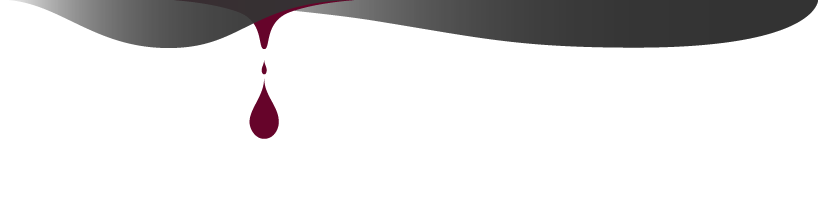
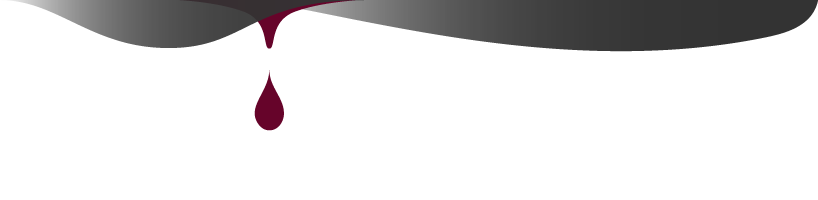
zacetek

diff --git a/script/anime.min.js b/script/anime.min.js
@@ -1,0 +1,8 @@
+/*
+ * anime.js v3.2.0
+ * (c) 2020 Julian Garnier
+ * Released under the MIT license
+ * animejs.com
+ */
+
+!function(n,e){"object"==typeof exports&&"undefined"!=typeof module?module.exports=e():"function"==typeof define&&define.amd?define(e):n.anime=e()}(this,function(){"use strict";var n={update:null,begin:null,loopBegin:null,changeBegin:null,change:null,changeComplete:null,loopComplete:null,complete:null,loop:1,direction:"normal",autoplay:!0,timelineOffset:0},e={duration:1e3,delay:0,endDelay:0,easing:"easeOutElastic(1, .5)",round:0},r=["translateX","translateY","translateZ","rotate","rotateX","rotateY","rotateZ","scale","scaleX","scaleY","scaleZ","skew","skewX","skewY","perspective","matrix","matrix3d"],t={CSS:{},springs:{}};function a(n,e,r){return Math.min(Math.max(n,e),r)}function o(n,e){return n.indexOf(e)>-1}function u(n,e){return n.apply(null,e)}var i={arr:function(n){return Array.isArray(n)},obj:function(n){return o(Object.prototype.toString.call(n),"Object")},pth:function(n){return i.obj(n)&&n.hasOwnProperty("totalLength")},svg:function(n){return n instanceof SVGElement},inp:function(n){return n instanceof HTMLInputElement},dom:function(n){return n.nodeType||i.svg(n)},str:function(n){return"string"==typeof n},fnc:function(n){return"function"==typeof n},und:function(n){return void 0===n},hex:function(n){return/(^#[0-9A-F]{6}$)|(^#[0-9A-F]{3}$)/i.test(n)},rgb:function(n){return/^rgb/.test(n)},hsl:function(n){return/^hsl/.test(n)},col:function(n){return i.hex(n)||i.rgb(n)||i.hsl(n)},key:function(r){return!n.hasOwnProperty(r)&&!e.hasOwnProperty(r)&&"targets"!==r&&"keyframes"!==r}};function c(n){var e=/\(([^)]+)\)/.exec(n);return e?e[1].split(",").map(function(n){return parseFloat(n)}):[]}function s(n,e){var r=c(n),o=a(i.und(r[0])?1:r[0],.1,100),u=a(i.und(r[1])?100:r[1],.1,100),s=a(i.und(r[2])?10:r[2],.1,100),f=a(i.und(r[3])?0:r[3],.1,100),l=Math.sqrt(u/o),d=s/(2*Math.sqrt(u*o)),p=d<1?l*Math.sqrt(1-d*d):0,h=1,v=d<1?(d*l-f)/p:-f+l;function g(n){var r=e?e*n/1e3:n;return r=d<1?Math.exp(-r*d*l)*(h*Math.cos(p*r)+v*Math.sin(p*r)):(h+v*r)*Math.exp(-r*l),0===n||1===n?n:1-r}return e?g:function(){var e=t.springs[n];if(e)return e;for(var r=0,a=0;;)if(1===g(r+=1/6)){if(++a>=16)break}else a=0;var o=r*(1/6)*1e3;return t.springs[n]=o,o}}function f(n){return void 0===n&&(n=10),function(e){return Math.ceil(a(e,1e-6,1)*n)*(1/n)}}var l,d,p=function(){var n=11,e=1/(n-1);function r(n,e){return 1-3*e+3*n}function t(n,e){return 3*e-6*n}function a(n){return 3*n}function o(n,e,o){return((r(e,o)*n+t(e,o))*n+a(e))*n}function u(n,e,o){return 3*r(e,o)*n*n+2*t(e,o)*n+a(e)}return function(r,t,a,i){if(0<=r&&r<=1&&0<=a&&a<=1){var c=new Float32Array(n);if(r!==t||a!==i)for(var s=0;s<n;++s)c[s]=o(s*e,r,a);return function(n){return r===t&&a===i?n:0===n||1===n?n:o(f(n),t,i)}}function f(t){for(var i=0,s=1,f=n-1;s!==f&&c[s]<=t;++s)i+=e;var l=i+(t-c[--s])/(c[s+1]-c[s])*e,d=u(l,r,a);return d>=.001?function(n,e,r,t){for(var a=0;a<4;++a){var i=u(e,r,t);if(0===i)return e;e-=(o(e,r,t)-n)/i}return e}(t,l,r,a):0===d?l:function(n,e,r,t,a){for(var u,i,c=0;(u=o(i=e+(r-e)/2,t,a)-n)>0?r=i:e=i,Math.abs(u)>1e-7&&++c<10;);return i}(t,i,i+e,r,a)}}}(),h=(l={linear:function(){return function(n){return n}}},d={Sine:function(){return function(n){return 1-Math.cos(n*Math.PI/2)}},Circ:function(){return function(n){return 1-Math.sqrt(1-n*n)}},Back:function(){return function(n){return n*n*(3*n-2)}},Bounce:function(){return function(n){for(var e,r=4;n<((e=Math.pow(2,--r))-1)/11;);return 1/Math.pow(4,3-r)-7.5625*Math.pow((3*e-2)/22-n,2)}},Elastic:function(n,e){void 0===n&&(n=1),void 0===e&&(e=.5);var r=a(n,1,10),t=a(e,.1,2);return function(n){return 0===n||1===n?n:-r*Math.pow(2,10*(n-1))*Math.sin((n-1-t/(2*Math.PI)*Math.asin(1/r))*(2*Math.PI)/t)}}},["Quad","Cubic","Quart","Quint","Expo"].forEach(function(n,e){d[n]=function(){return function(n){return Math.pow(n,e+2)}}}),Object.keys(d).forEach(function(n){var e=d[n];l["easeIn"+n]=e,l["easeOut"+n]=function(n,r){return function(t){return 1-e(n,r)(1-t)}},l["easeInOut"+n]=function(n,r){return function(t){return t<.5?e(n,r)(2*t)/2:1-e(n,r)(-2*t+2)/2}}}),l);function v(n,e){if(i.fnc(n))return n;var r=n.split("(")[0],t=h[r],a=c(n);switch(r){case"spring":return s(n,e);case"cubicBezier":return u(p,a);case"steps":return u(f,a);default:return u(t,a)}}function g(n){try{return document.querySelectorAll(n)}catch(n){return}}function m(n,e){for(var r=n.length,t=arguments.length>=2?arguments[1]:void 0,a=[],o=0;o<r;o++)if(o in n){var u=n[o];e.call(t,u,o,n)&&a.push(u)}return a}function y(n){return n.reduce(function(n,e){return n.concat(i.arr(e)?y(e):e)},[])}function b(n){return i.arr(n)?n:(i.str(n)&&(n=g(n)||n),n instanceof NodeList||n instanceof HTMLCollection?[].slice.call(n):[n])}function x(n,e){return n.some(function(n){return n===e})}function M(n){var e={};for(var r in n)e[r]=n[r];return e}function w(n,e){var r=M(n);for(var t in n)r[t]=e.hasOwnProperty(t)?e[t]:n[t];return r}function k(n,e){var r=M(n);for(var t in e)r[t]=i.und(n[t])?e[t]:n[t];return r}function O(n){return i.rgb(n)?(r=/rgb\((\d+,\s*[\d]+,\s*[\d]+)\)/g.exec(e=n))?"rgba("+r[1]+",1)":e:i.hex(n)?(t=n.replace(/^#?([a-f\d])([a-f\d])([a-f\d])$/i,function(n,e,r,t){return e+e+r+r+t+t}),a=/^#?([a-f\d]{2})([a-f\d]{2})([a-f\d]{2})$/i.exec(t),"rgba("+parseInt(a[1],16)+","+parseInt(a[2],16)+","+parseInt(a[3],16)+",1)"):i.hsl(n)?function(n){var e,r,t,a=/hsl\((\d+),\s*([\d.]+)%,\s*([\d.]+)%\)/g.exec(n)||/hsla\((\d+),\s*([\d.]+)%,\s*([\d.]+)%,\s*([\d.]+)\)/g.exec(n),o=parseInt(a[1],10)/360,u=parseInt(a[2],10)/100,i=parseInt(a[3],10)/100,c=a[4]||1;function s(n,e,r){return r<0&&(r+=1),r>1&&(r-=1),r<1/6?n+6*(e-n)*r:r<.5?e:r<2/3?n+(e-n)*(2/3-r)*6:n}if(0==u)e=r=t=i;else{var f=i<.5?i*(1+u):i+u-i*u,l=2*i-f;e=s(l,f,o+1/3),r=s(l,f,o),t=s(l,f,o-1/3)}return"rgba("+255*e+","+255*r+","+255*t+","+c+")"}(n):void 0;var e,r,t,a}function C(n){var e=/[+-]?\d*\.?\d+(?:\.\d+)?(?:[eE][+-]?\d+)?(%|px|pt|em|rem|in|cm|mm|ex|ch|pc|vw|vh|vmin|vmax|deg|rad|turn)?$/.exec(n);if(e)return e[1]}function B(n,e){return i.fnc(n)?n(e.target,e.id,e.total):n}function P(n,e){return n.getAttribute(e)}function I(n,e,r){if(x([r,"deg","rad","turn"],C(e)))return e;var a=t.CSS[e+r];if(!i.und(a))return a;var o=document.createElement(n.tagName),u=n.parentNode&&n.parentNode!==document?n.parentNode:document.body;u.appendChild(o),o.style.position="absolute",o.style.width=100+r;var c=100/o.offsetWidth;u.removeChild(o);var s=c*parseFloat(e);return t.CSS[e+r]=s,s}function T(n,e,r){if(e in n.style){var t=e.replace(/([a-z])([A-Z])/g,"$1-$2").toLowerCase(),a=n.style[e]||getComputedStyle(n).getPropertyValue(t)||"0";return r?I(n,a,r):a}}function D(n,e){return i.dom(n)&&!i.inp(n)&&(P(n,e)||i.svg(n)&&n[e])?"attribute":i.dom(n)&&x(r,e)?"transform":i.dom(n)&&"transform"!==e&&T(n,e)?"css":null!=n[e]?"object":void 0}function E(n){if(i.dom(n)){for(var e,r=n.style.transform||"",t=/(\w+)\(([^)]*)\)/g,a=new Map;e=t.exec(r);)a.set(e[1],e[2]);return a}}function F(n,e,r,t){var a,u=o(e,"scale")?1:0+(o(a=e,"translate")||"perspective"===a?"px":o(a,"rotate")||o(a,"skew")?"deg":void 0),i=E(n).get(e)||u;return r&&(r.transforms.list.set(e,i),r.transforms.last=e),t?I(n,i,t):i}function N(n,e,r,t){switch(D(n,e)){case"transform":return F(n,e,t,r);case"css":return T(n,e,r);case"attribute":return P(n,e);default:return n[e]||0}}function A(n,e){var r=/^(\*=|\+=|-=)/.exec(n);if(!r)return n;var t=C(n)||0,a=parseFloat(e),o=parseFloat(n.replace(r[0],""));switch(r[0][0]){case"+":return a+o+t;case"-":return a-o+t;case"*":return a*o+t}}function L(n,e){if(i.col(n))return O(n);if(/\s/g.test(n))return n;var r=C(n),t=r?n.substr(0,n.length-r.length):n;return e?t+e:t}function j(n,e){return Math.sqrt(Math.pow(e.x-n.x,2)+Math.pow(e.y-n.y,2))}function S(n){for(var e,r=n.points,t=0,a=0;a<r.numberOfItems;a++){var o=r.getItem(a);a>0&&(t+=j(e,o)),e=o}return t}function q(n){if(n.getTotalLength)return n.getTotalLength();switch(n.tagName.toLowerCase()){case"circle":return o=n,2*Math.PI*P(o,"r");case"rect":return 2*P(a=n,"width")+2*P(a,"height");case"line":return j({x:P(t=n,"x1"),y:P(t,"y1")},{x:P(t,"x2"),y:P(t,"y2")});case"polyline":return S(n);case"polygon":return r=(e=n).points,S(e)+j(r.getItem(r.numberOfItems-1),r.getItem(0))}var e,r,t,a,o}function $(n,e){var r=e||{},t=r.el||function(n){for(var e=n.parentNode;i.svg(e)&&i.svg(e.parentNode);)e=e.parentNode;return e}(n),a=t.getBoundingClientRect(),o=P(t,"viewBox"),u=a.width,c=a.height,s=r.viewBox||(o?o.split(" "):[0,0,u,c]);return{el:t,viewBox:s,x:s[0]/1,y:s[1]/1,w:u/s[2],h:c/s[3]}}function X(n,e){function r(r){void 0===r&&(r=0);var t=e+r>=1?e+r:0;return n.el.getPointAtLength(t)}var t=$(n.el,n.svg),a=r(),o=r(-1),u=r(1);switch(n.property){case"x":return(a.x-t.x)*t.w;case"y":return(a.y-t.y)*t.h;case"angle":return 180*Math.atan2(u.y-o.y,u.x-o.x)/Math.PI}}function Y(n,e){var r=/[+-]?\d*\.?\d+(?:\.\d+)?(?:[eE][+-]?\d+)?/g,t=L(i.pth(n)?n.totalLength:n,e)+"";return{original:t,numbers:t.match(r)?t.match(r).map(Number):[0],strings:i.str(n)||e?t.split(r):[]}}function Z(n){return m(n?y(i.arr(n)?n.map(b):b(n)):[],function(n,e,r){return r.indexOf(n)===e})}function Q(n){var e=Z(n);return e.map(function(n,r){return{target:n,id:r,total:e.length,transforms:{list:E(n)}}})}function V(n,e){var r=M(e);if(/^spring/.test(r.easing)&&(r.duration=s(r.easing)),i.arr(n)){var t=n.length;2===t&&!i.obj(n[0])?n={value:n}:i.fnc(e.duration)||(r.duration=e.duration/t)}var a=i.arr(n)?n:[n];return a.map(function(n,r){var t=i.obj(n)&&!i.pth(n)?n:{value:n};return i.und(t.delay)&&(t.delay=r?0:e.delay),i.und(t.endDelay)&&(t.endDelay=r===a.length-1?e.endDelay:0),t}).map(function(n){return k(n,r)})}function z(n,e){var r=[],t=e.keyframes;for(var a in t&&(e=k(function(n){for(var e=m(y(n.map(function(n){return Object.keys(n)})),function(n){return i.key(n)}).reduce(function(n,e){return n.indexOf(e)<0&&n.push(e),n},[]),r={},t=function(t){var a=e[t];r[a]=n.map(function(n){var e={};for(var r in n)i.key(r)?r==a&&(e.value=n[r]):e[r]=n[r];return e})},a=0;a<e.length;a++)t(a);return r}(t),e)),e)i.key(a)&&r.push({name:a,tweens:V(e[a],n)});return r}function H(n,e){var r;return n.tweens.map(function(t){var a=function(n,e){var r={};for(var t in n){var a=B(n[t],e);i.arr(a)&&1===(a=a.map(function(n){return B(n,e)})).length&&(a=a[0]),r[t]=a}return r.duration=parseFloat(r.duration),r.delay=parseFloat(r.delay),r}(t,e),o=a.value,u=i.arr(o)?o[1]:o,c=C(u),s=N(e.target,n.name,c,e),f=r?r.to.original:s,l=i.arr(o)?o[0]:f,d=C(l)||C(s),p=c||d;return i.und(u)&&(u=f),a.from=Y(l,p),a.to=Y(A(u,l),p),a.start=r?r.end:0,a.end=a.start+a.delay+a.duration+a.endDelay,a.easing=v(a.easing,a.duration),a.isPath=i.pth(o),a.isColor=i.col(a.from.original),a.isColor&&(a.round=1),r=a,a})}var G={css:function(n,e,r){return n.style[e]=r},attribute:function(n,e,r){return n.setAttribute(e,r)},object:function(n,e,r){return n[e]=r},transform:function(n,e,r,t,a){if(t.list.set(e,r),e===t.last||a){var o="";t.list.forEach(function(n,e){o+=e+"("+n+") "}),n.style.transform=o}}};function R(n,e){Q(n).forEach(function(n){for(var r in e){var t=B(e[r],n),a=n.target,o=C(t),u=N(a,r,o,n),i=A(L(t,o||C(u)),u),c=D(a,r);G[c](a,r,i,n.transforms,!0)}})}function W(n,e){return m(y(n.map(function(n){return e.map(function(e){return function(n,e){var r=D(n.target,e.name);if(r){var t=H(e,n),a=t[t.length-1];return{type:r,property:e.name,animatable:n,tweens:t,duration:a.end,delay:t[0].delay,endDelay:a.endDelay}}}(n,e)})})),function(n){return!i.und(n)})}function J(n,e){var r=n.length,t=function(n){return n.timelineOffset?n.timelineOffset:0},a={};return a.duration=r?Math.max.apply(Math,n.map(function(n){return t(n)+n.duration})):e.duration,a.delay=r?Math.min.apply(Math,n.map(function(n){return t(n)+n.delay})):e.delay,a.endDelay=r?a.duration-Math.max.apply(Math,n.map(function(n){return t(n)+n.duration-n.endDelay})):e.endDelay,a}var K=0;var U,_=[],nn=[],en=function(){function n(){U=requestAnimationFrame(e)}function e(e){var r=_.length;if(r){for(var t=0;t<r;){var a=_[t];if(a.paused){var o=_.indexOf(a);o>-1&&(_.splice(o,1),r=_.length)}else a.tick(e);t++}n()}else U=cancelAnimationFrame(U)}return n}();function rn(r){void 0===r&&(r={});var t,o=0,u=0,i=0,c=0,s=null;function f(n){var e=window.Promise&&new Promise(function(n){return s=n});return n.finished=e,e}var l,d,p,h,v,g,y,b,x=(d=w(n,l=r),p=w(e,l),h=z(p,l),v=Q(l.targets),g=W(v,h),y=J(g,p),b=K,K++,k(d,{id:b,children:[],animatables:v,animations:g,duration:y.duration,delay:y.delay,endDelay:y.endDelay}));f(x);function M(){var n=x.direction;"alternate"!==n&&(x.direction="normal"!==n?"normal":"reverse"),x.reversed=!x.reversed,t.forEach(function(n){return n.reversed=x.reversed})}function O(n){return x.reversed?x.duration-n:n}function C(){o=0,u=O(x.currentTime)*(1/rn.speed)}function B(n,e){e&&e.seek(n-e.timelineOffset)}function P(n){for(var e=0,r=x.animations,t=r.length;e<t;){var o=r[e],u=o.animatable,i=o.tweens,c=i.length-1,s=i[c];c&&(s=m(i,function(e){return n<e.end})[0]||s);for(var f=a(n-s.start-s.delay,0,s.duration)/s.duration,l=isNaN(f)?1:s.easing(f),d=s.to.strings,p=s.round,h=[],v=s.to.numbers.length,g=void 0,y=0;y<v;y++){var b=void 0,M=s.to.numbers[y],w=s.from.numbers[y]||0;b=s.isPath?X(s.value,l*M):w+l*(M-w),p&&(s.isColor&&y>2||(b=Math.round(b*p)/p)),h.push(b)}var k=d.length;if(k){g=d[0];for(var O=0;O<k;O++){d[O];var C=d[O+1],B=h[O];isNaN(B)||(g+=C?B+C:B+" ")}}else g=h[0];G[o.type](u.target,o.property,g,u.transforms),o.currentValue=g,e++}}function I(n){x[n]&&!x.passThrough&&x[n](x)}function T(n){var e=x.duration,r=x.delay,l=e-x.endDelay,d=O(n);x.progress=a(d/e*100,0,100),x.reversePlayback=d<x.currentTime,t&&function(n){if(x.reversePlayback)for(var e=c;e--;)B(n,t[e]);else for(var r=0;r<c;r++)B(n,t[r])}(d),!x.began&&x.currentTime>0&&(x.began=!0,I("begin")),!x.loopBegan&&x.currentTime>0&&(x.loopBegan=!0,I("loopBegin")),d<=r&&0!==x.currentTime&&P(0),(d>=l&&x.currentTime!==e||!e)&&P(e),d>r&&d<l?(x.changeBegan||(x.changeBegan=!0,x.changeCompleted=!1,I("changeBegin")),I("change"),P(d)):x.changeBegan&&(x.changeCompleted=!0,x.changeBegan=!1,I("changeComplete")),x.currentTime=a(d,0,e),x.began&&I("update"),n>=e&&(u=0,x.remaining&&!0!==x.remaining&&x.remaining--,x.remaining?(o=i,I("loopComplete"),x.loopBegan=!1,"alternate"===x.direction&&M()):(x.paused=!0,x.completed||(x.completed=!0,I("loopComplete"),I("complete"),!x.passThrough&&"Promise"in window&&(s(),f(x)))))}return x.reset=function(){var n=x.direction;x.passThrough=!1,x.currentTime=0,x.progress=0,x.paused=!0,x.began=!1,x.loopBegan=!1,x.changeBegan=!1,x.completed=!1,x.changeCompleted=!1,x.reversePlayback=!1,x.reversed="reverse"===n,x.remaining=x.loop,t=x.children;for(var e=c=t.length;e--;)x.children[e].reset();(x.reversed&&!0!==x.loop||"alternate"===n&&1===x.loop)&&x.remaining++,P(x.reversed?x.duration:0)},x.set=function(n,e){return R(n,e),x},x.tick=function(n){i=n,o||(o=i),T((i+(u-o))*rn.speed)},x.seek=function(n){T(O(n))},x.pause=function(){x.paused=!0,C()},x.play=function(){x.paused&&(x.completed&&x.reset(),x.paused=!1,_.push(x),C(),U||en())},x.reverse=function(){M(),x.completed=!x.reversed,C()},x.restart=function(){x.reset(),x.play()},x.reset(),x.autoplay&&x.play(),x}function tn(n,e){for(var r=e.length;r--;)x(n,e[r].animatable.target)&&e.splice(r,1)}return"undefined"!=typeof document&&document.addEventListener("visibilitychange",function(){document.hidden?(_.forEach(function(n){return n.pause()}),nn=_.slice(0),rn.running=_=[]):nn.forEach(function(n){return n.play()})}),rn.version="3.2.0",rn.speed=1,rn.running=_,rn.remove=function(n){for(var e=Z(n),r=_.length;r--;){var t=_[r],a=t.animations,o=t.children;tn(e,a);for(var u=o.length;u--;){var i=o[u],c=i.animations;tn(e,c),c.length||i.children.length||o.splice(u,1)}a.length||o.length||t.pause()}},rn.get=N,rn.set=R,rn.convertPx=I,rn.path=function(n,e){var r=i.str(n)?g(n)[0]:n,t=e||100;return function(n){return{property:n,el:r,svg:$(r),totalLength:q(r)*(t/100)}}},rn.setDashoffset=function(n){var e=q(n);return n.setAttribute("stroke-dasharray",e),e},rn.stagger=function(n,e){void 0===e&&(e={});var r=e.direction||"normal",t=e.easing?v(e.easing):null,a=e.grid,o=e.axis,u=e.from||0,c="first"===u,s="center"===u,f="last"===u,l=i.arr(n),d=l?parseFloat(n[0]):parseFloat(n),p=l?parseFloat(n[1]):0,h=C(l?n[1]:n)||0,g=e.start||0+(l?d:0),m=[],y=0;return function(n,e,i){if(c&&(u=0),s&&(u=(i-1)/2),f&&(u=i-1),!m.length){for(var v=0;v<i;v++){if(a){var b=s?(a[0]-1)/2:u%a[0],x=s?(a[1]-1)/2:Math.floor(u/a[0]),M=b-v%a[0],w=x-Math.floor(v/a[0]),k=Math.sqrt(M*M+w*w);"x"===o&&(k=-M),"y"===o&&(k=-w),m.push(k)}else m.push(Math.abs(u-v));y=Math.max.apply(Math,m)}t&&(m=m.map(function(n){return t(n/y)*y})),"reverse"===r&&(m=m.map(function(n){return o?n<0?-1*n:-n:Math.abs(y-n)}))}return g+(l?(p-d)/y:d)*(Math.round(100*m[e])/100)+h}},rn.timeline=function(n){void 0===n&&(n={});var r=rn(n);return r.duration=0,r.add=function(t,a){var o=_.indexOf(r),u=r.children;function c(n){n.passThrough=!0}o>-1&&_.splice(o,1);for(var s=0;s<u.length;s++)c(u[s]);var f=k(t,w(e,n));f.targets=f.targets||n.targets;var l=r.duration;f.autoplay=!1,f.direction=r.direction,f.timelineOffset=i.und(a)?l:A(a,l),c(r),r.seek(f.timelineOffset);var d=rn(f);c(d),u.push(d);var p=J(u,n);return r.delay=p.delay,r.endDelay=p.endDelay,r.duration=p.duration,r.seek(0),r.reset(),r.autoplay&&r.play(),r},r},rn.easing=v,rn.penner=h,rn.random=function(n,e){return Math.floor(Math.random()*(e-n+1))+n},rn});

diff --git a/test.html b/test.html
@@ -1,0 +1,62 @@
+<!DOCTYPE html PUBLIC "-//W3C//DTD XHTML 1.0 Transitional//EN" "http://www.w3.org/TR/xhtml1/DTD/xhtml1-transitional.dtd">
+<html>
+<script src="script/anime.min.js"></script>
+<head>
+<meta charset=utf-8 />
+
+<style>
+
+
+
+</style>
+</head>
+
+<body id="bodyId">
+	
+	<svg version="1.1" id="Layer_1" xmlns="http://www.w3.org/2000/svg" xmlns:xlink="http://www.w3.org/1999/xlink" x="0px" y="0px"
+	 viewBox="0 0 818 200" style="enable-background:new 0 0 818 200;" xml:space="preserve">
+<style type="text/css">
+	.st0{fill:#66042A;}
+</style>
+<!-- <path id="XMLID_4_" class="st0" d="M278.7,122c0,8.4-5.9,16.8-14.5,16.8c-8.6,0-14.5-9.5-14.5-16.8c0-13.3,14.5-26.3,14.5-43.3 -->
+	<!-- C264.2,95.9,278.7,106.4,278.7,122z"/> -->
+<!-- <path id="XMLID_2_" class="st0" d="M266.6,70.3c0,2-1,3.9-2.4,3.9c-1.4,0-2.4-2.2-2.4-3.9c0-3.1,2.4-6.1,2.4-10.1 -->
+	<!-- C264.2,64.2,266.6,66.7,266.6,70.3z"/> -->
+<path id="XMLID_1_" class="st0" d="M264.2,49c-6.7,0,0.4-27.2-25.3-36.8s-64.2-12-64.2-12l179,0c0,0-38.5,2.4-64.2,12	C263.8,21.8,270.8,49,264.2,49"/>
+<path id="XMLID_9_" class="st0" d="M266.8,45.1c0,2-1.1,3.9-2.6,3.9c-1.6,0-2.6-2.2-2.6-3.9c0-2.2,2.6-2.5,2.6-5.1
+	C264.2,42.6,266.8,42.9,266.8,45.1z"/>
+</svg>
+
+</body>
+
+<script>
+	
+	const path2 = "M278.7,62.3c0,8.4-5.9,16.8-14.5,16.8c-8.6,0-14.5-9.5-14.5-16.8c0-13.3,14.5-39.8,14.5-56.8 C264.2,22.6,278.7,46.6,278.7,62.3z";
+	
+	const path3 = "M278.7,122c0,8.4-5.9,16.8-14.5,16.8c-8.6,0-14.5-9.5-14.5-16.8c0-13.3,14.5-26.3,14.5-43.3	C264.2,95.9,278.7,106.4,278.7,122z";
+	
+	const timeline = anime.timeline({
+		duration: 1000,
+		loop: true
+	});	
+	
+	timeline.add({
+		targets: "#XMLID_9_",
+		easing: "linear",
+		d: [
+			{value: path2}
+		]
+	});
+	
+	timeline.add({
+		targets: "#XMLID_9_",
+		easing: "linear",
+		d: [
+			{value: path3}
+		]
+	});
+	
+	
+</script>
+
+</html>
